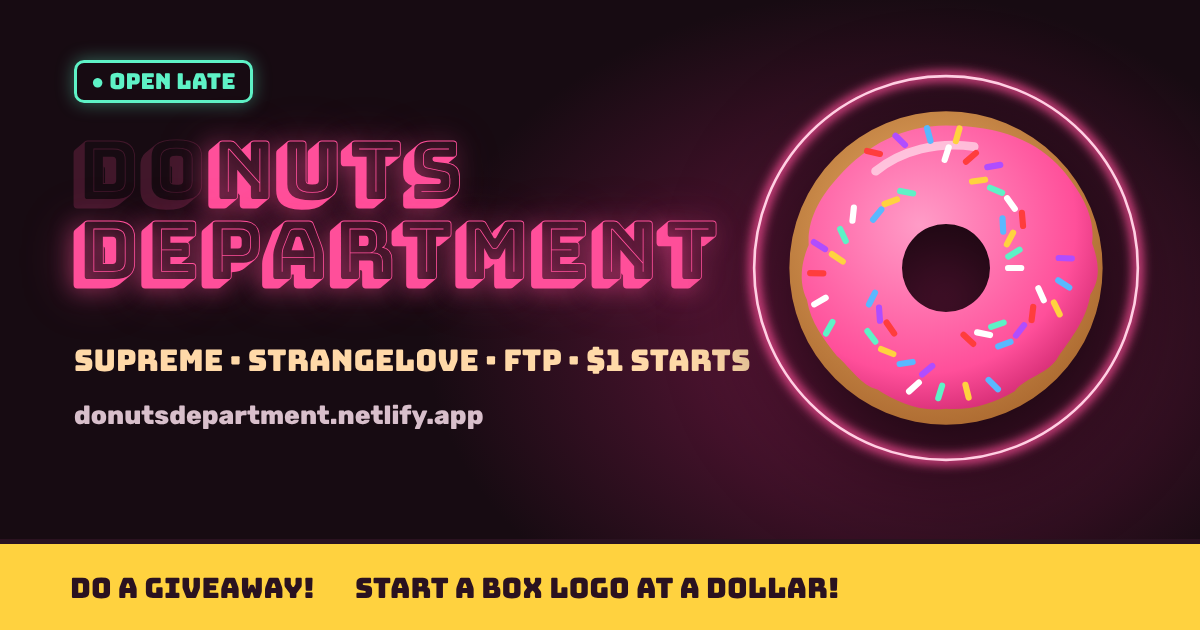
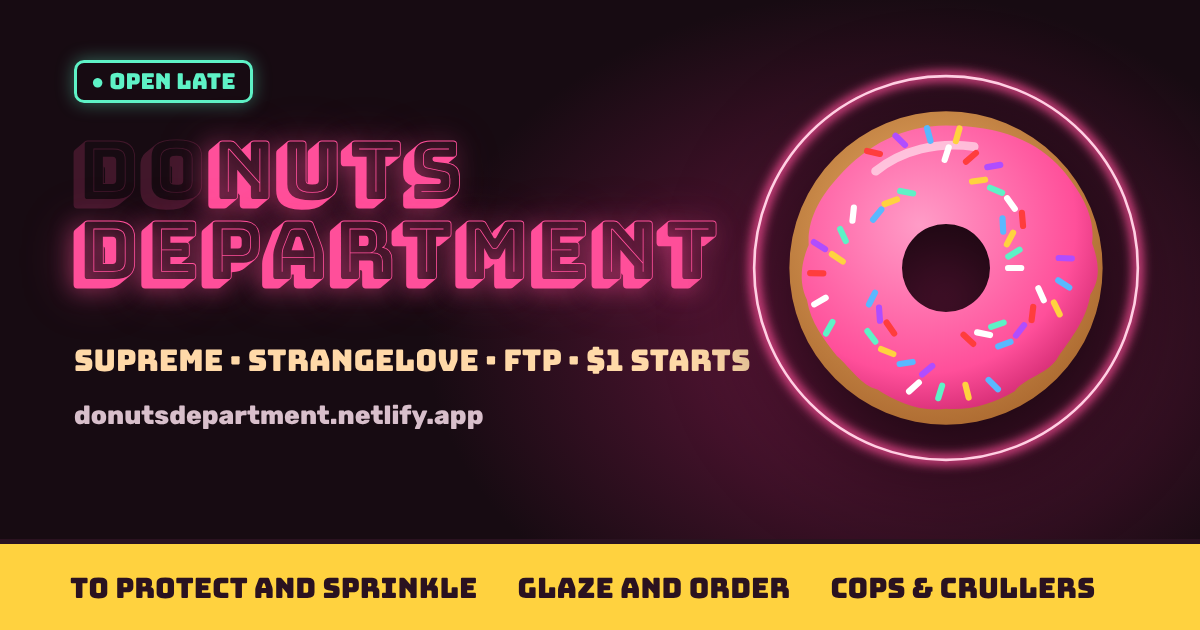
Swap goblin catchphrases for donut-and-cop wordplay across the site
Ticker, rotating hero motto, section names (On the beat, Partners in crumb,
The usual suspects, The break room, The evidence locker, Join the force,
The interrogation room, Call for backup), mugshot-style goblin lineup,
footer tagline, 404 and link preview image.

Claude-Session: https://claude.ai/code/session_0196AxvqpjKuqYPmsxQNV9H1

Changed region(s): [[0.0617, 0.9048, 0.925, 0.9651]]

diff --git a/index.html b/index.html
@@ -126,7 +126,11 @@ nav.top .wrap{display:flex;align-items:center;gap:12px;padding:8px max(5vw,16px)
 /* goblins */
 .gobs{display:grid;grid-auto-flow:column;grid-auto-columns:minmax(220px,260px);gap:14px;overflow-x:auto;scroll-snap-type:x mandatory;padding:4px 2px 14px;scrollbar-width:thin}
 .gob{scroll-snap-align:start;background:var(--card);border:2px solid var(--line);border-radius:22px;padding:14px;display:flex;flex-direction:column;gap:10px}
-.gob svg{width:100%;aspect-ratio:1;border-radius:16px}
+.gob svg{width:100%;aspect-ratio:1;border-radius:16px;display:block}
+.mug{position:relative;border-radius:16px;overflow:hidden}
+.mug::after{content:'';position:absolute;inset:0;background:repeating-linear-gradient(180deg,transparent 0 15px,rgba(255,255,255,.14) 15px 16px);pointer-events:none}
+.plate{position:absolute;left:50%;bottom:8px;transform:translateX(-50%);background:#111;color:#fff;font:400 12px Bungee,sans-serif;padding:3px 10px;border-radius:4px;letter-spacing:.06em;z-index:1}
+.motto{font-family:Bungee;font-size:clamp(14px,1.8vw,18px);color:var(--mint);margin:8px 0 0;min-height:1.3em;transition:opacity .4s}
 .gob b{font-family:Bungee;font-size:17px;color:var(--sun);line-height:1.15}
 .gob span{color:var(--mute);font-size:14px}
 .snapbtns{display:flex;gap:8px;margin-top:6px}
@@ -239,7 +243,7 @@ footer .wrap{display:flex;gap:16px;justify-content:space-between;flex-wrap:wrap}
 <a class="skip" href="#streams">Skip to the schedule</a>
 <nav class="top"><div class="wrap">
   <a class="brand" href="#top">Donuts Department</a>
-  <div class="links"><a href="#streams">Streams</a><a href="#crew">Streamers</a><a class="opt" href="#goblins">Goblins</a><a href="#arcade">Arcade</a><a class="opt" href="#drops">Brands</a><a href="#join">Join</a><a class="opt" href="#cop">How to cop</a></div>
+  <div class="links"><a href="#streams">Streams</a><a href="#crew">Streamers</a><a class="opt" href="#goblins">Suspects</a><a href="#arcade">Arcade</a><a class="opt" href="#drops">Brands</a><a href="#join">Join</a><a class="opt" href="#cop">How to cop</a></div>
   <button class="radio" id="radio" aria-pressed="false" aria-label="Play Donuts Department radio"><span class="eq"><i></i><i></i><i></i></span><span id="radioTxt">Play music</span></button>
 </div></nav>
 
@@ -248,8 +252,9 @@ footer .wrap{display:flex;gap:16px;justify-content:space-between;flex-wrap:wrap}
     <div class="open">● OPEN LATE</div>
     <h1 class="sign" aria-label="Donuts Department"><span class="flk">Do</span>nuts<br>Department</h1>
     <p class="sub">Supreme · Strangelove · FTP · $1 starts</p>
+    <p class="motto" id="motto">To protect and sprinkle.</p>
     <div class="next" id="nextCard" aria-live="polite">
-      <div class="lbl" id="nextLbl">Next stream</div>
+      <div class="lbl" id="nextLbl">Next shift</div>
       <div class="nexthead"><img id="nextPoster" alt="" hidden><div><h3 id="nextTitle">Loading the glaze…</h3>
       <div id="nextWhen" class="lbl"></div>
       <div class="feedchip" id="heroFeed"></div></div></div>
@@ -284,10 +289,10 @@ footer .wrap{display:flex;gap:16px;justify-content:space-between;flex-wrap:wrap}
   </div>
 </div></header>
 
-<div class="ticker" aria-hidden="true"><div><span>DO A GIVEAWAY!</span><span>START A BOX LOGO AT A DOLLAR!</span><span>COME ON! WHERE IS HE AT!</span><span>BUYER'S GIVEAWAY EVERY SHOW</span><span>GIVY GOBLINS ARE WAITING</span><span>DONUTS · STRANGELOVE · SUPREME</span></div></div>
+<div class="ticker" aria-hidden="true"><div><span>TO PROTECT AND SPRINKLE</span><span>GLAZE AND ORDER</span><span>YOU HAVE THE RIGHT TO REMAIN GLAZED</span><span>BOOK 'EM, DANISH</span><span>COPS &amp; CRULLERS</span><span>ALL POINTS BOSTON CREAM</span><span>DONUT RESIST</span><span>SQUAD CARBS</span></div></div>
 
 <section class="band" id="streams"><div class="wrap">
-  <h2>On the menu</h2>
+  <h2>On the beat</h2>
   <p class="lede">Upcoming donutsforcops streams. Times are in your time zone. Tap a show to set a reminder on Whatnot.</p>
   <ul class="menu" id="menu"></ul>
   <p style="margin-top:18px"><button class="btn ghost" id="more">Show the full schedule</button></p>
@@ -295,32 +300,32 @@ footer .wrap{display:flex;gap:16px;justify-content:space-between;flex-wrap:wrap}
 </div></section>
 
 <section class="band" id="crew" style="background:var(--bg2)"><div class="wrap">
-  <h2>Recommended streamers</h2>
-  <p class="lede">Friends of the Department. Go show them some love when donutsforcops isn't live.</p>
+  <h2>Partners in crumb</h2>
+  <p class="lede">Our recommended streamers. Go show them some love when donutsforcops isn't live.</p>
   <div class="crew" id="crewList"></div>
 </div></section>
 
 <section class="band" id="goblins"><div class="wrap">
-  <h2>Meet the Givy Goblins</h2>
-  <p class="lede">They're watching from everywhere, phone in hand, waiting for the show to start. They want one thing.</p>
+  <h2>The usual suspects</h2>
+  <p class="lede">Known Givy Goblins, last seen in chat with their phones out, waiting on the show. Approach with sprinkles.</p>
   <div class="gobs" id="gobs"></div>
   <div class="snapbtns"><button id="gPrev" aria-label="Previous goblin">‹</button><button id="gNext" aria-label="Next goblin">›</button></div>
 </div></section>
 
 <section class="band" id="arcade" style="background:var(--bg2)"><div class="wrap">
-  <h2>The arcade corner</h2>
-  <p class="lede">Kill time before the show starts. Every game runs right here in your phone's browser, no download, no sign-in.</p>
+  <h2>The break room</h2>
+  <p class="lede">Every officer needs a break. Kill time before the show starts. Every game runs right here in your phone's browser, no download, no sign-in.</p>
   <div class="arcade" id="cabs"></div>
 </div></section>
 
 <section class="band" id="drops"><div class="wrap">
-  <h2>The brands behind the counter</h2>
+  <h2>The evidence locker</h2>
   <p class="lede">Where the heat comes from. Check the droplist, then catch it at a dollar on stream.</p>
   <div class="brands">
     <article class="drop dfc">
       <h3>donutsforcops</h3>
       <p>The Donuts Department's own Whatnot shop.</p>
-      <ul><li>Supreme, Strangelove and FTP streetwear</li><li>$1 start auctions and sticker runs</li><li>Givy Goblin giveaways and a buyer's giveaway every show</li></ul>
+      <ul><li>Supreme, Strangelove and FTP streetwear</li><li>$1 start auctions and sticker runs</li><li>Giveaways all show, plus a buyer's giveaway</li></ul>
       <div class="row"><a class="btn" href="https://www.whatnot.com/user/donutsforcops">Follow on Whatnot</a></div>
     </article>
     <article class="drop sup">
@@ -343,7 +348,7 @@ footer .wrap{display:flex;gap:16px;justify-content:space-between;flex-wrap:wrap}
   <div class="joinbox">
     <div class="joinart" aria-hidden="true"><svg viewBox="0 0 120 120"><circle cx="60" cy="60" r="46" fill="#ff4f9a"/><circle cx="60" cy="60" r="17" fill="#2a1220"/><g fill="#fff"><rect x="30" y="34" width="12" height="4" rx="2" transform="rotate(30 36 36)"/><rect x="76" y="38" width="12" height="4" rx="2" transform="rotate(-20 82 40)"/><rect x="80" y="74" width="12" height="4" rx="2" transform="rotate(50 86 76)"/><rect x="28" y="76" width="12" height="4" rx="2" transform="rotate(-40 34 78)"/></g><g fill="#5ef2c6"><rect x="54" y="20" width="12" height="4" rx="2"/><rect x="52" y="96" width="12" height="4" rx="2" transform="rotate(20 58 98)"/></g></svg></div>
     <div>
-      <h2>New to Whatnot? Get a head start.</h2>
+      <h2>New to Whatnot? Join the force.</h2>
       <p>Sign up with the Donuts Department invite link. You'll automatically follow donutsforcops, see our shows first in the app, and get credit applied to your first purchase.</p>
       <div class="row"><a class="btn big" href="https://www.whatnot.com/invite/donutsforcops">Join Whatnot with our link</a><a class="btn ghost" href="#cop">How it works</a></div>
       <p class="fine">Already on Whatnot? Just <a href="https://www.whatnot.com/user/donutsforcops">follow donutsforcops</a>. Credit amounts are set by Whatnot and can change.</p>
@@ -358,22 +363,22 @@ footer .wrap{display:flex;gap:16px;justify-content:space-between;flex-wrap:wrap}
 </div></section>
 
 <section class="band" id="faq"><div class="wrap">
-  <h2>Questions at the counter</h2>
-  <p class="lede">Quick answers before you jump in.</p>
+  <h2>The interrogation room</h2>
+  <p class="lede">Quick answers. You have the right to remain curious.</p>
   <div class="faq" id="faqList"></div>
 </div></section>
 
 <section class="band"><div class="wrap">
   <div class="sharebox">
-    <div><h2 style="font-size:clamp(24px,4vw,36px)">Bring a friend to the Department</h2><p class="lede" style="margin-bottom:0">Send this page to anyone who should be at the next show. On iPhone, open it in Safari, tap Share, then Add to Home Screen to keep it like an app.</p></div>
+    <div><h2 style="font-size:clamp(24px,4vw,36px)">Call for backup</h2><p class="lede" style="margin-bottom:0">Send this page to anyone who should be at the next show. On iPhone, open it in Safari, tap Share, then Add to Home Screen to keep it like an app.</p></div>
     <button class="btn" id="share">Copy link</button>
   </div>
 </div></section>
 
 <footer class="band"><div class="wrap foot">
-  <div class="fbrand"><b><span class="flk">Do</span>nuts Department</b><span>Streetwear, skate and sugar from donutsforcops. Open late.</span></div>
+  <div class="fbrand"><b><span class="flk">Do</span>nuts Department</b><span>To protect and sprinkle. Streetwear, skate and sugar from donutsforcops.</span></div>
   <nav aria-label="Watch"><h4>Watch</h4><a href="#streams">Upcoming streams</a><a href="#crew">Recommended streamers</a><a href="https://www.whatnot.com/user/donutsforcops">donutsforcops on Whatnot</a></nav>
-  <nav aria-label="Play"><h4>Play</h4><a href="#arcade">Arcade</a><a href="#goblins">Givy Goblins</a><a href="#faq">Questions</a></nav>
+  <nav aria-label="Play"><h4>Play</h4><a href="#arcade">Arcade</a><a href="#goblins">Usual suspects</a><a href="#faq">Questions</a></nav>
   <nav aria-label="Shop"><h4>Shop</h4><a href="https://www.whatnot.com/invite/donutsforcops">Join Whatnot</a><a href="https://strangeloveskateboards.com">Strangelove</a><a href="https://www.supremecommunity.com">Supreme Community</a></nav>
   <p class="legal">© <span id="yr">2026</span> Donuts Department. Independent reseller, not affiliated with Supreme, Strangelove or FTP.</p>
 </div></footer>
@@ -394,7 +399,7 @@ const CONFIG={
   whatnot:'https://www.whatnot.com/user/donutsforcops',
   invite:'https://www.whatnot.com/invite/donutsforcops',   // referral link: new Whatnot sign-ups
   showLengthHrs:3,
-  notes:{dfc:'$1 starts, Givy Goblins giveaways, buyer\'s giveaway every show'},
+  notes:{dfc:'$1 starts, giveaways all show and a buyer\'s giveaway'},
   // Exact shows from Whatnot, Eastern time (YYYY-MM-DD HH:MM). Past shows hide themselves.
   streams:[
     {who:'dfc',at:'2026-11-24 23:22',title:'Donuts, Strangelove & Supreme',u:'https://www.whatnot.com/live/16a7c55c-ee44-44e7-ae05-5ffe7f2eeda8'},
@@ -429,16 +434,16 @@ const CONFIG={
     {t:'Buyer\'s Giveaway Wheel',d:'The wheel from the show. Spin it and see what you\'d win.',u:'games/giveaway-wheel/',c:'#5ef2c6',art:'wheel'}
   ],
   goblins:[
-    {spot:'bathtub',line:'Do a giveaway!',tip:'Bubbles up, phone dry, refreshing the app.',bg:'#2b6f8f'},
-    {spot:'dinner table',line:'Start a box logo at a dollar!',tip:'Dinner is getting cold. Doesn\'t care.',bg:'#8f5a2b'},
-    {spot:'toilet',line:'Do a giveaway!',tip:'Been in there twenty minutes. Still waiting.',bg:'#5a6b7a'},
-    {spot:'car',line:'Start a box logo at a dollar!',tip:'Parked. Engine running. Notifications on.',bg:'#3a3f8f'},
-    {spot:'shop counter',line:'Do a giveaway!',tip:'On the clock, phone under the register.',bg:'#2b8f62'},
-    {spot:'bed',line:'Come on! Where is he at!',tip:'Should be asleep. Absolutely not asleep.',bg:'#6a2b8f'}
+    {spot:'bathtub',line:'I plead the frosted.',tip:'Caught in the tub, phone dry, refreshing the app.',bg:'#2b6f8f'},
+    {spot:'dinner table',line:'Am I being glazed?',tip:'Dinner is getting cold. Doesn\'t care.',bg:'#8f5a2b'},
+    {spot:'bathroom',line:'I\'m just here for the hole thing.',tip:'Been in there twenty minutes. Still waiting.',bg:'#5a6b7a'},
+    {spot:'car',line:'I know my rights. Right to remain glazed.',tip:'Parked. Engine running. Notifications on.',bg:'#3a3f8f'},
+    {spot:'shop counter',line:'You\'ll never take me unglazed.',tip:'On the clock, phone under the register.',bg:'#2b8f62'},
+    {spot:'bed',line:'I want my lawyer. And a cruller.',tip:'Should be asleep. Absolutely not asleep.',bg:'#6a2b8f'}
   ],
   steps:[
-    {t:'Join and follow',d:'New to Whatnot? Sign up with our invite link and you\'ll follow donutsforcops automatically. Turn on notifications to get pinged the second the show goes live.',i:'bell'},
-    {t:'Pull up early',d:'The Givy Goblins start yelling before the show. Early chat gets in on the first giveaways.',i:'clock'},
+    {t:'Report for duty',d:'New to Whatnot? Sign up with our invite link and you\'ll follow donutsforcops automatically. Turn on notifications to get pinged the second the show goes live.',i:'bell'},
+    {t:'Make roll call',d:'Get into chat before the show starts. Early viewers catch the first giveaways.',i:'clock'},
     {t:'Bid from a dollar',d:'Supreme, Strangelove and FTP start at $1. Tap to bid; the highest bid when the timer ends takes it.',i:'gavel'},
     {t:'Buy, get a shot',d:'Buyers are entered in the buyer\'s giveaway. Spend once, stay in the running all night.',i:'gift'},
     {t:'It ships to you',d:'Wins ship to the address on your Whatnot account. Stickers go out light as letter mail.',i:'box'}
@@ -447,7 +452,7 @@ const CONFIG={
     ['Do I need the Whatnot app?','Watching and bidding work best in the free Whatnot app on your phone. Sign up with our invite link (whatnot.com/invite/donutsforcops), add a card and address once, and you\'re ready to bid.'],
     ['What does a "$1 start" mean?','Every auction opens at one dollar. Where it ends is up to chat. Sometimes a box logo goes for a steal.'],
     ['What is a sudden death auction?','Some of our recommended streamers run these. The timer doesn\'t reset when someone bids, so whoever is highest when it hits zero wins. No last-second extensions.'],
-    ['How do the giveaways work?','Givy giveaways are free to enter during the show. The buyer\'s giveaway is only for people who bought something that show.'],
+    ['How do the giveaways work?','Giveaways are free to enter during the show. The buyer\'s giveaway is only for people who bought something that show.'],
     ['Are these official Supreme stores?','No. donutsforcops and the streamers we recommend are independent resellers, not affiliated with Supreme, Strangelove or FTP.'],
     ['When does my stuff ship?','donutsforcops ships fast after the show, and wins from the same show ship together. You\'ll get tracking in the Whatnot app.']
   ]
@@ -474,7 +479,7 @@ async function loadFeed(){if(busy)return;busy=true;lastCheck=Date.now();
     const j=await r.json();if(!j||!Array.isArray(j.shows))throw 0;
     const next=j.shows.filter(s=>s&&s.at&&s.title).map(s=>({who:'dfc',title:String(s.title),u:/^https:\/\/www\.whatnot\.com\//.test(s.u)?s.u:CONFIG.whatnot,live:!!s.live,thumb:/^https:\/\//.test(s.thumb||'')?s.thumb:'',note:CONFIG.notes.dfc,at:new Date(s.at)})).filter(s=>!isNaN(s.at)).sort((a,b)=>a.at-b.at);
     const nsig=next.map(keyOf).join(';');
-    if(sig&&nsig!==sig){const old=new Set(sig.split(';'));changed=new Set(next.filter(o=>!old.has(keyOf(o))).map(o=>o.u));toast('Schedule updated from Whatnot');setTimeout(()=>{changed.clear();renderMenu()},9000)}
+    if(sig&&nsig!==sig){const old=new Set(sig.split(';'));changed=new Set(next.filter(o=>!old.has(keyOf(o))).map(o=>o.u));toast('Dispatch: the schedule just changed');setTimeout(()=>{changed.clear();renderMenu()},9000)}
     sig=nsig;SHOWS=next;feedState='live';feedAt=Date.parse(j.updated)||Date.now();
   }catch(e){feedState=feedState==='live'||feedState==='stale'?'stale':'backup'}
   busy=false;document.body.classList.remove('feed-loading');renderMenu();tickHero();status()}
@@ -508,7 +513,7 @@ function tickHero(){const now=Date.now();const n=upcoming(now)[0];
   const live=liveNow(n,now);$('#liveBar').classList.toggle('on',live);
   const sign=$('.open');sign.classList.toggle('live',live);sign.textContent=live?'● LIVE NOW':'● OPEN LATE';
   const pst=$('#nextPoster');if(n.thumb){if(pst.getAttribute('src')!==n.thumb)pst.src=n.thumb;pst.hidden=false}else pst.hidden=true;
-  $('#nextLbl').textContent=live?'Happening right now · '+who[n.who].n:'Next stream · '+who[n.who].n;
+  $('#nextLbl').textContent=live?'On duty right now · '+who[n.who].n:'Next shift · '+who[n.who].n;
   $('#nextTitle').textContent=n.title;
   $('#nextWhen').textContent=fmtDay(n.at)+' at '+fmtTime(n.at);
   $('#nextGo').textContent=live?'Join the show':'Open the show';$('#nextGo').href=n.u;
@@ -531,7 +536,7 @@ const gob=g=>`<svg viewBox="0 0 120 120"><rect width="120" height="120" fill="${
   <path d="M42 70q18 16 36 0" fill="#3a0f1a" stroke="#2a5a12" stroke-width="2"/><path d="M48 71l3 5 3-4 3 5 3-5 3 4 3-5" fill="#fff"/>
   <rect x="76" y="74" width="18" height="30" rx="4" fill="#111" transform="rotate(12 85 89)"/><rect x="79" y="78" width="12" height="20" rx="2" fill="#ff4f9a" transform="rotate(12 85 89)"/>
   <ellipse cx="82" cy="98" rx="9" ry="7" fill="#7fd13f"/></svg>`;
-$('#gobs').innerHTML=CONFIG.goblins.map(g=>`<div class="gob">${gob(g)}<b>"${esc(g.line)}"</b><span>The ${esc(g.spot)} goblin. ${esc(g.tip)}</span></div>`).join('');
+$('#gobs').innerHTML=CONFIG.goblins.map((g,i)=>`<div class="gob"><div class="mug">${gob(g)}<span class="plate">DFC-0${i+1}</span></div><b>"${esc(g.line)}"</b><span>Suspect #${i+1}, the ${esc(g.spot)} goblin. ${esc(g.tip)}</span></div>`).join('');
 const gs=$('#gobs');const step=d=>gs.scrollBy({left:d*(gs.firstElementChild.offsetWidth+14),behavior:'smooth'});
 $('#gPrev').addEventListener('click',()=>step(-1));$('#gNext').addEventListener('click',()=>step(1));
 gs.addEventListener('keydown',e=>{if(e.key==='ArrowRight')step(1);if(e.key==='ArrowLeft')step(-1)});gs.tabIndex=0;
@@ -615,6 +620,8 @@ document.addEventListener('visibilitychange',()=>{if(!ac)return;if(document.hidd
 }
 
 $('#yr').textContent=new Date().getFullYear();
+{const M=['To protect and sprinkle.','Glaze and order, every night.','You have the right to remain glazed.','Book \'em, Danish.','Donut resist a $1 start.','Serving and protecting since the first dozen.'];let i=0;const el=$('#motto');
+ if(!still)setInterval(()=>{el.style.opacity=0;setTimeout(()=>{i=(i+1)%M.length;el.textContent=M[i];el.style.opacity=1},400)},4500)}
 renderMenu();tickHero();status();loadFeed();
 setInterval(tickHero,1000);setInterval(()=>{renderMenu();status()},30e3);
 /* check Whatnot every minute while the page is on screen, and right away when someone comes back to it */

diff --git a/404.html b/404.html
@@ -12,5 +12,5 @@ svg{width:150px;animation:s 12s linear infinite}@keyframes s{to{transform:rotate
 @media(prefers-reduced-motion:reduce){svg{animation:none}}
 </style></head><body><main>
 <svg viewBox="0 0 120 120" aria-hidden="true"><circle cx="60" cy="60" r="50" fill="#c98a45"/><circle cx="60" cy="58" r="45" fill="#ff4f9a"/><circle cx="60" cy="60" r="18" fill="#170b12"/><g fill="#fff"><rect x="30" y="32" width="12" height="4" rx="2" transform="rotate(30 36 34)"/><rect x="78" y="36" width="12" height="4" rx="2"/><rect x="80" y="76" width="12" height="4" rx="2" transform="rotate(-40 86 78)"/></g><g fill="#5ef2c6"><rect x="28" y="74" width="12" height="4" rx="2" transform="rotate(60 34 76)"/><rect x="54" y="18" width="12" height="4" rx="2"/></g></svg>
-<h1>404</h1><p>This donut's all hole. The page you're after isn't on the counter.</p><a href="/">Back to the Department</a>
+<h1>404</h1><p>Nothing to see here, folks. Move along. This donut's all hole.</p><a href="/">Back to the Department</a>
 </main></body></html>
